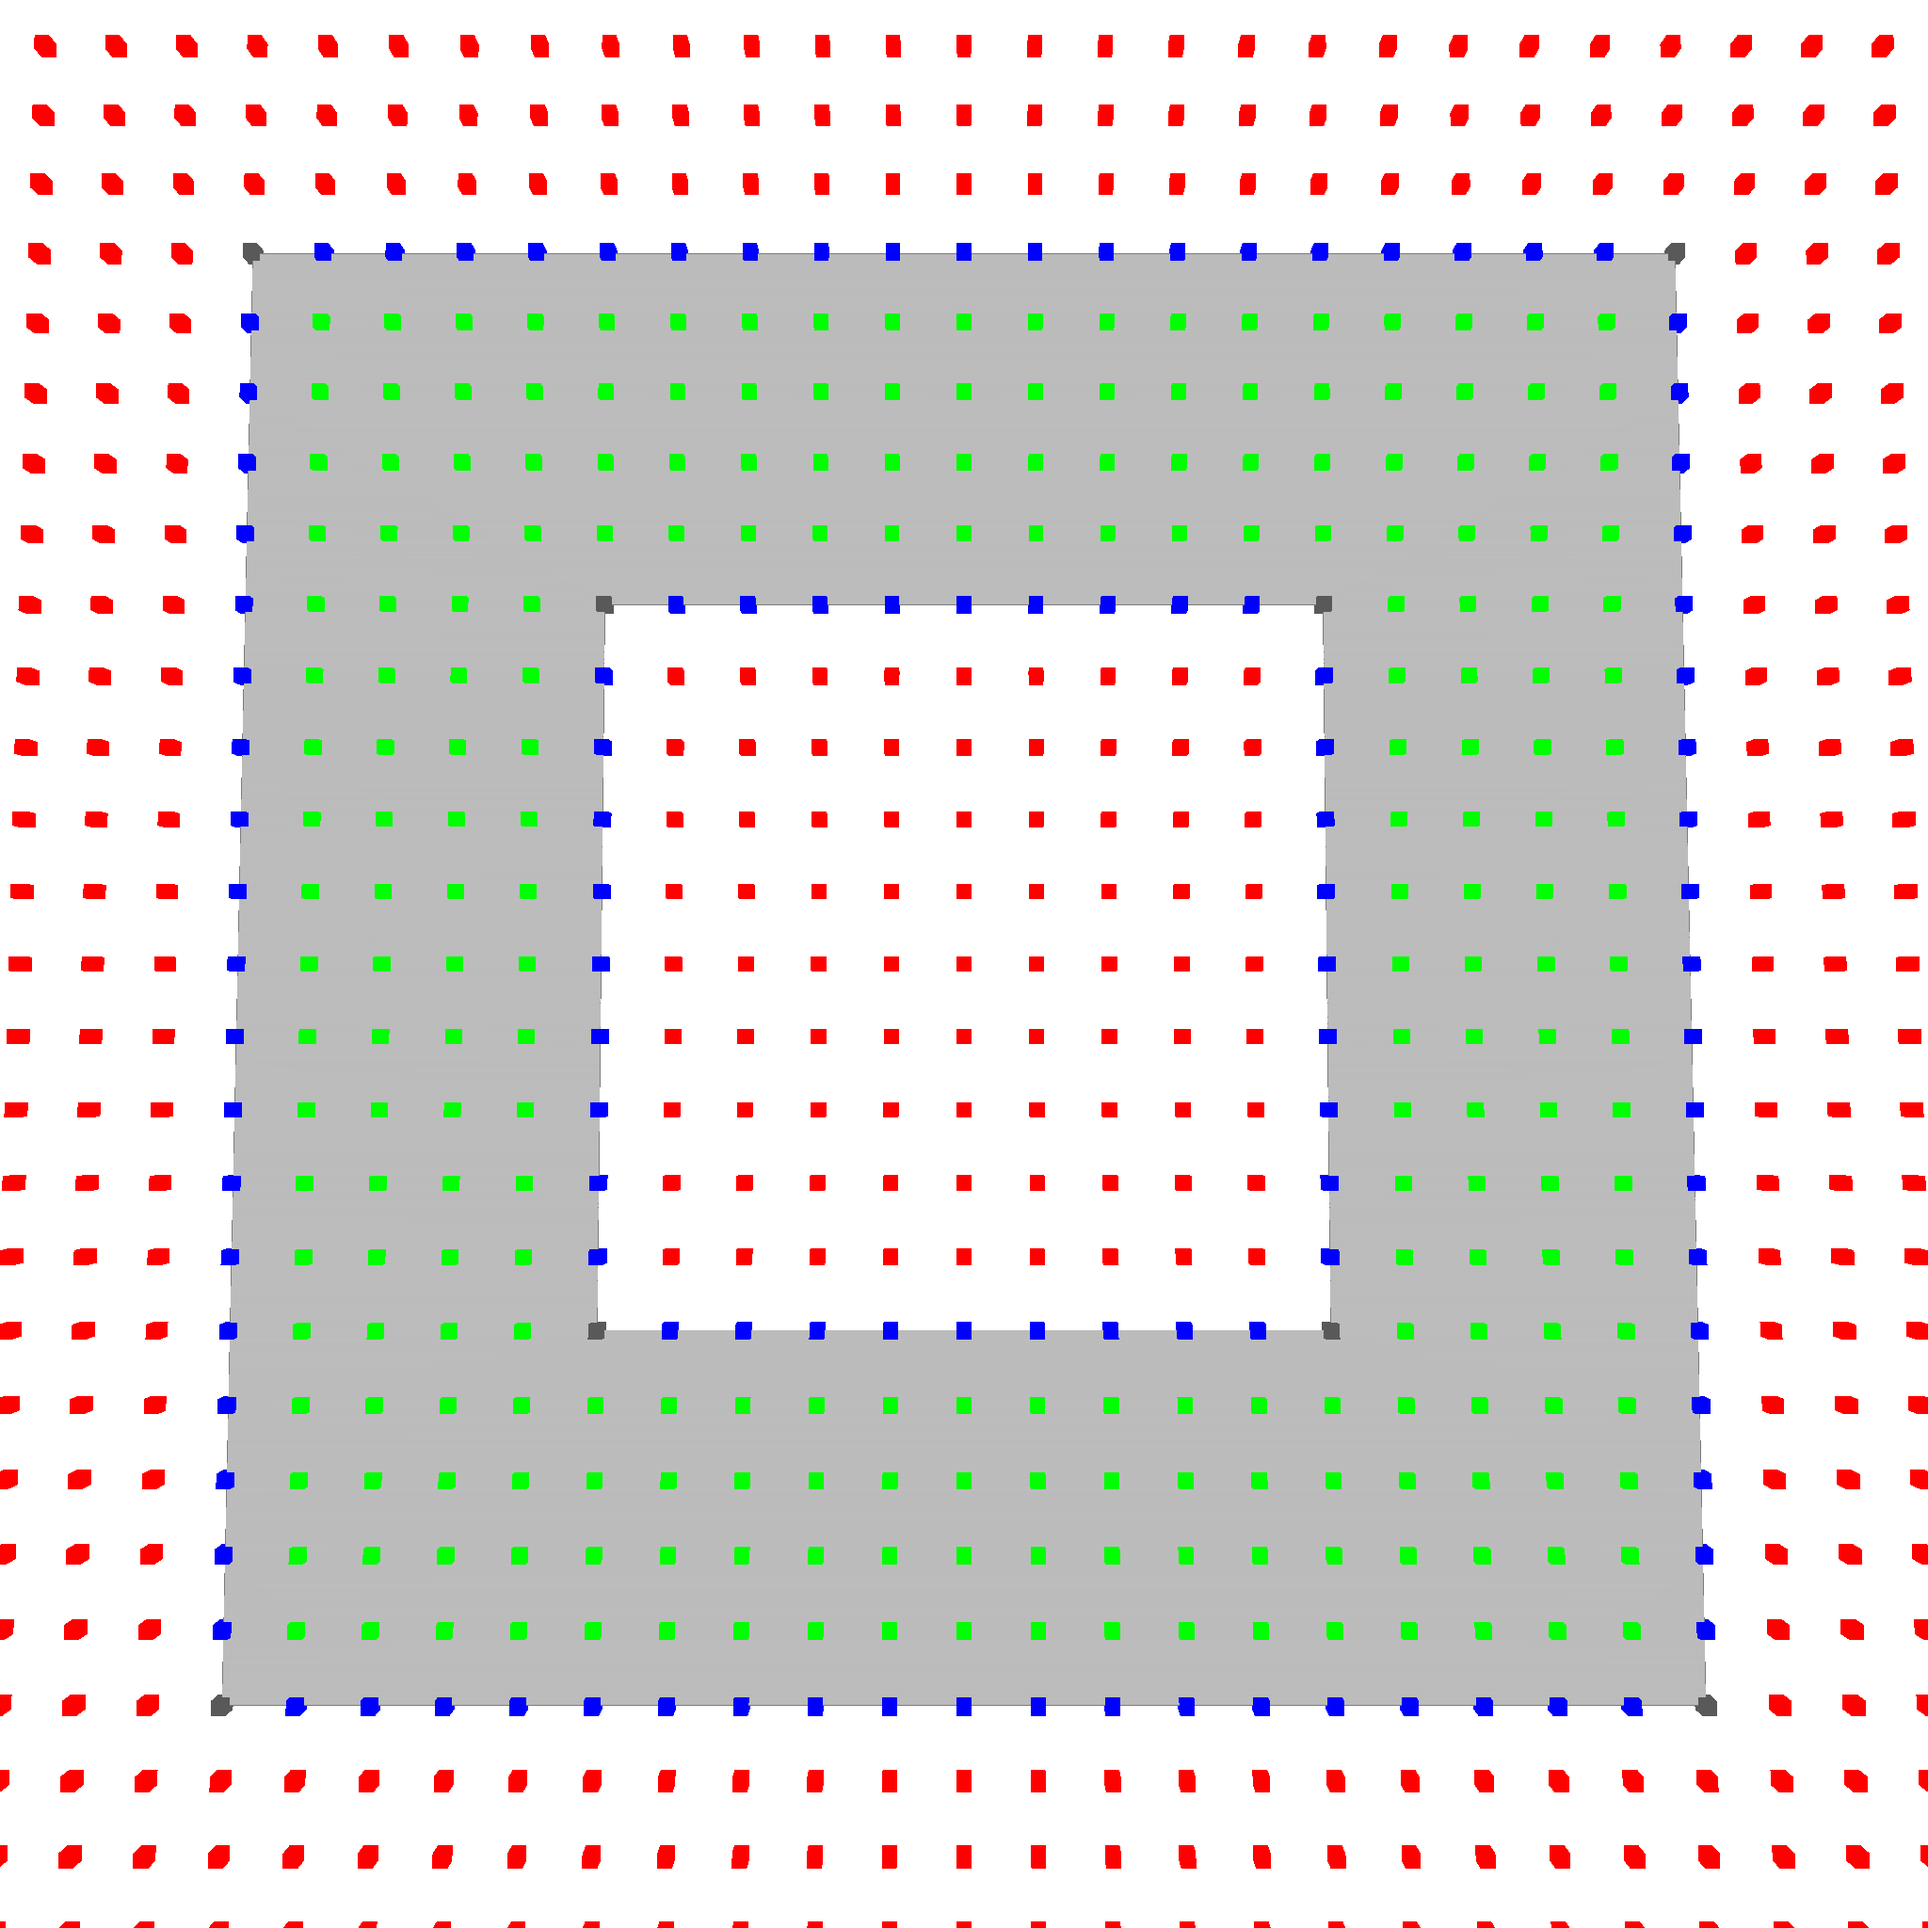
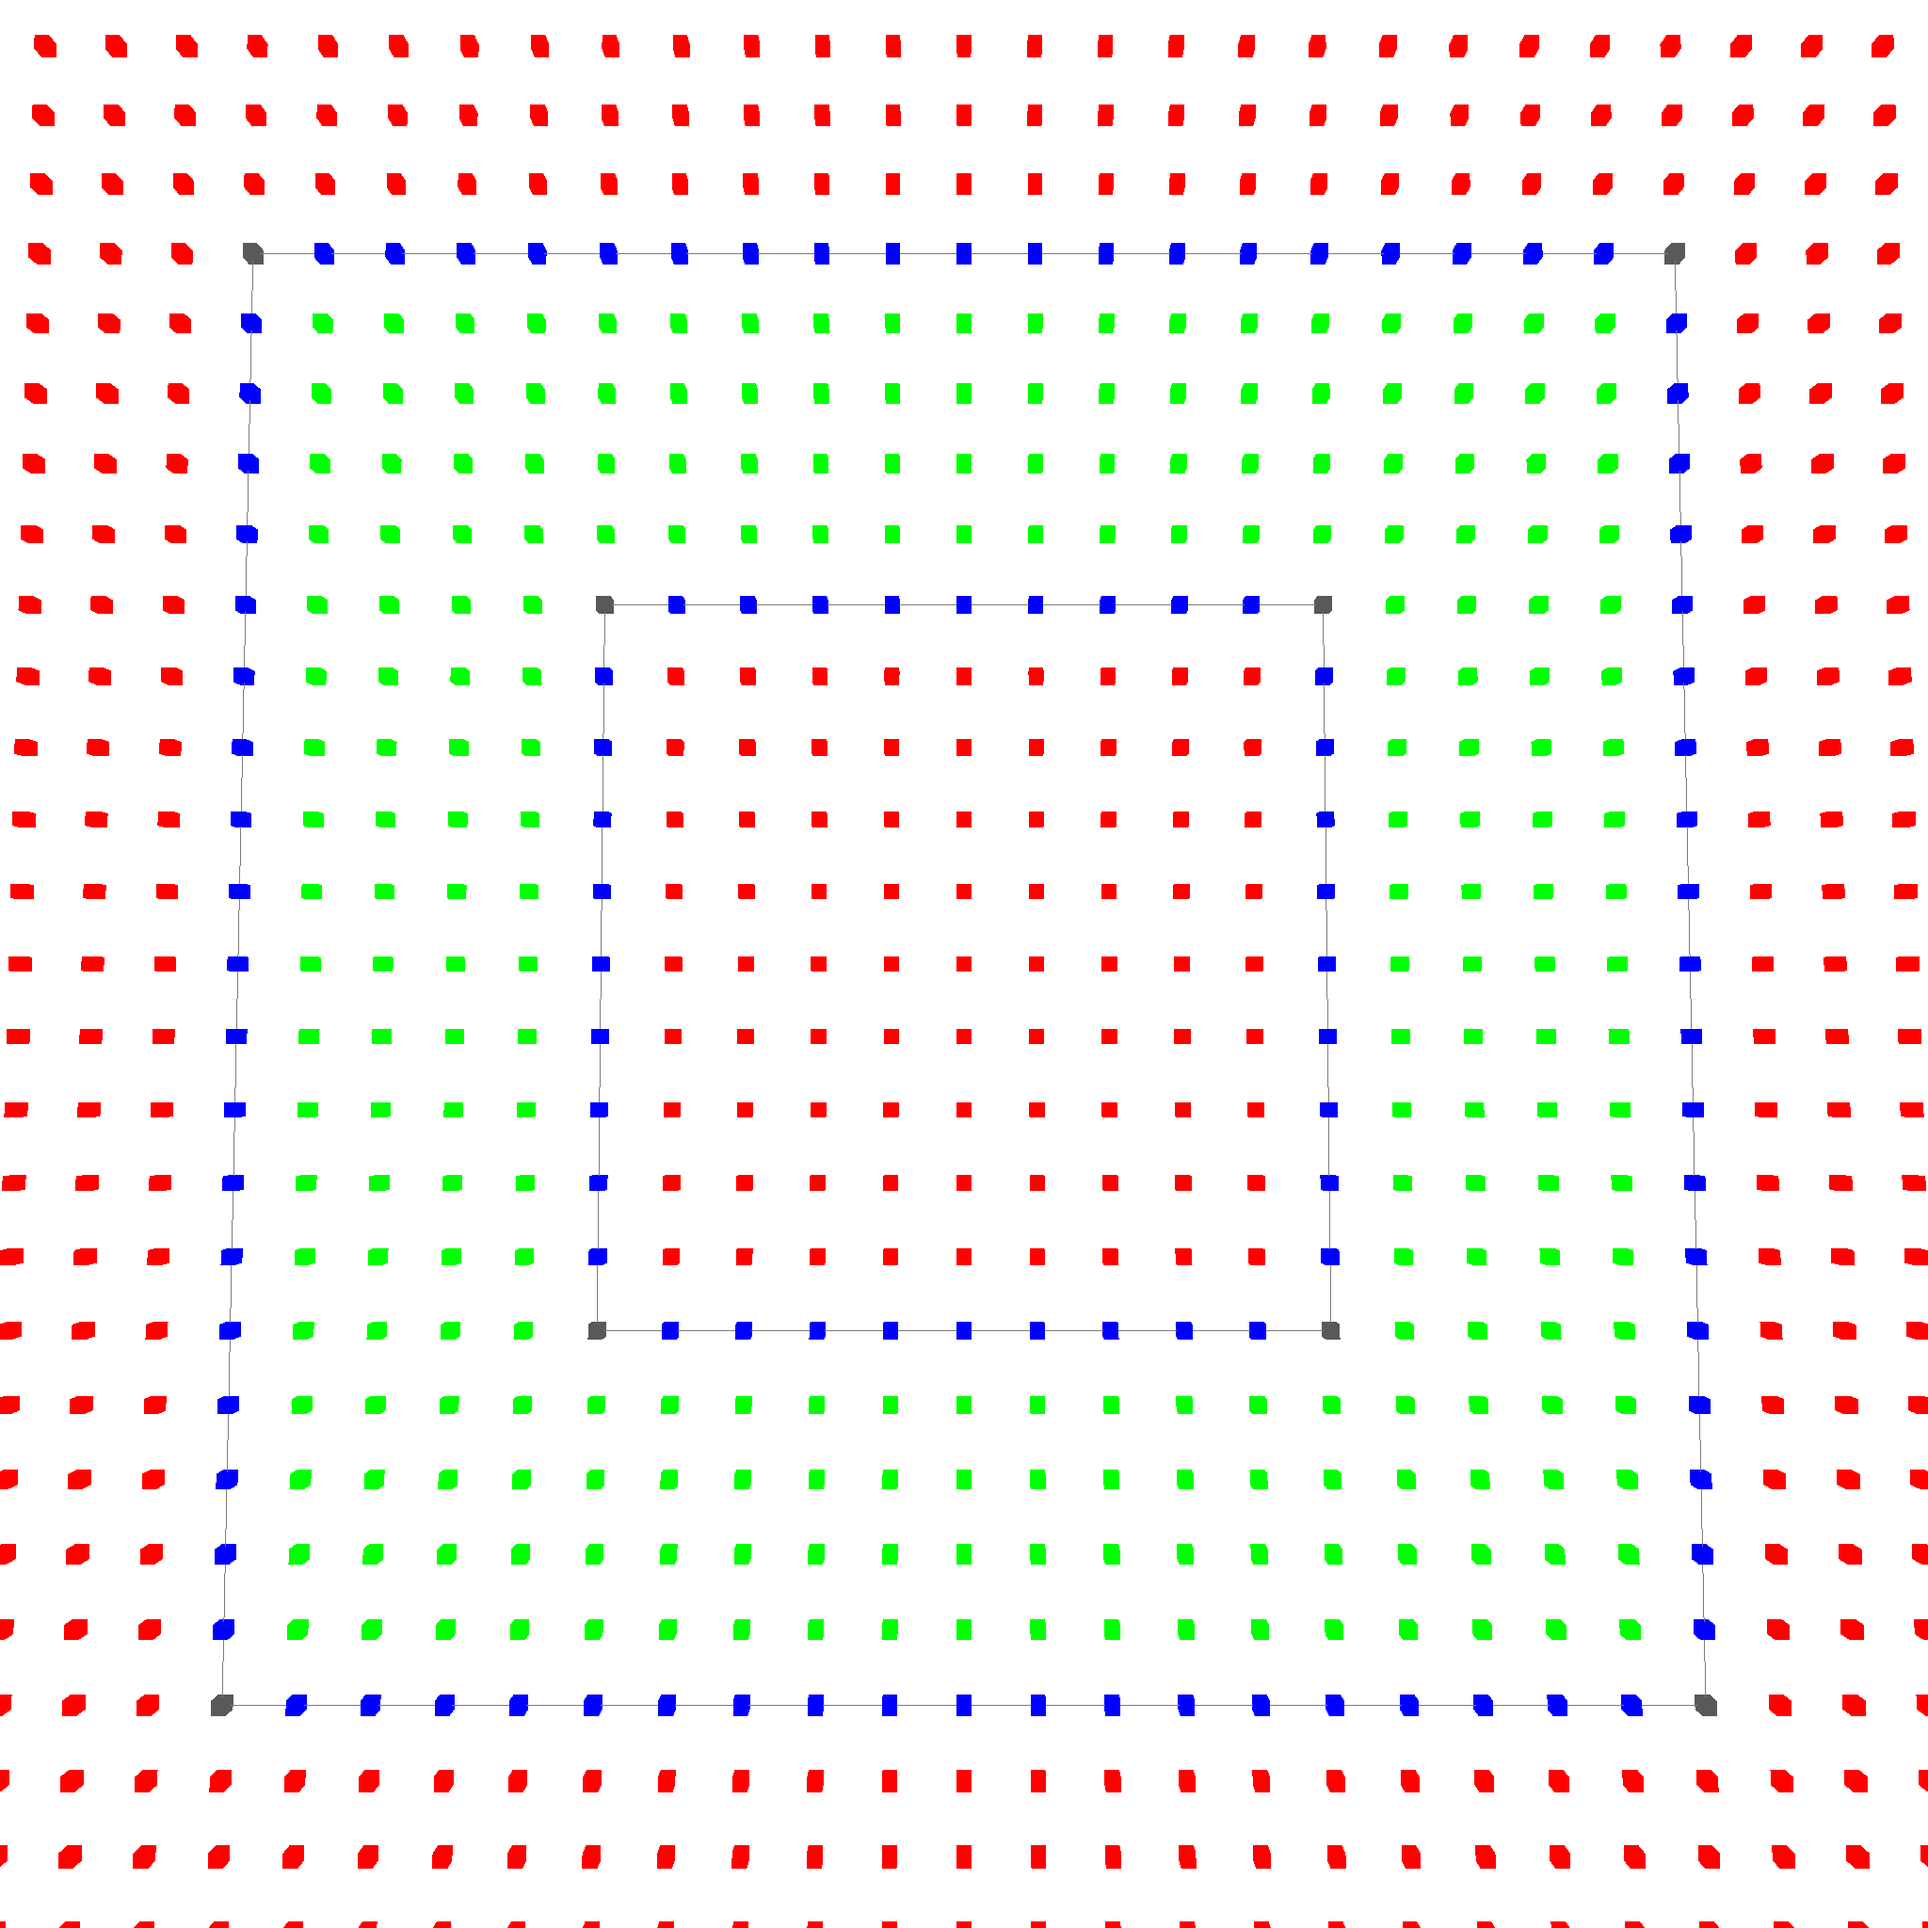
F

diff --git a/crates/modern-brep-kernel-book/src/graphics/booleans/face_booleans.rs b/crates/modern-brep-kernel-book/src/graphics/booleans/face_booleans.rs
@@ -3,8 +3,10 @@ mod tests {
     use std::rc::Rc;
 
     use geop_booleans::{
+        difference::face_face::face_face_difference,
         intersections::face_face::{face_face_intersection, FaceFaceIntersection},
         remesh::face::{face_remesh, face_split, face_split_points, FaceSplit},
+        union::face::face_face_union,
     };
     use geop_geometry::{
         points::point::Point,
@@ -203,6 +205,72 @@ mod tests {
                 false,
                 Point::new(0.0, -4.0, 0.0),
                 std::path::Path::new("src/generated_images/booleans/face_intersection.png"),
+            )
+            .await;
+    }
+
+    #[rstest]
+    async fn test_face_boolean_difference(#[future] renderer: Box<HeadlessRenderer>) {
+        let (face1, face2) = generate_scene();
+        let mut scene = Scene::new(vec![], vec![], vec![], vec![]);
+
+        for edge in face1.all_edges() {
+            scene.edges.push((edge.clone(), Color::white()));
+        }
+        for edge in face2.all_edges() {
+            scene.edges.push((edge.clone(), Color::white()));
+        }
+
+        let faces = face_face_difference(&face1, &face2);
+        for face in faces {
+            let face = face.transform(Transform::from_translation(Point::new(0.0, 0.001, 0.0)));
+            for edge in face.all_edges() {
+                scene.edges.push((edge.clone(), Color::red()));
+            }
+            scene.faces.push((face, Color::white()));
+        }
+
+        let mut renderer = renderer.await;
+        renderer
+            .render_to_file(
+                &scene,
+                false,
+                false,
+                Point::new(0.0, -4.0, 0.0),
+                std::path::Path::new("src/generated_images/booleans/face_difference.png"),
+            )
+            .await;
+    }
+
+    #[rstest]
+    async fn test_face_boolean_union(#[future] renderer: Box<HeadlessRenderer>) {
+        let (face1, face2) = generate_scene();
+        let mut scene = Scene::new(vec![], vec![], vec![], vec![]);
+
+        for edge in face1.all_edges() {
+            scene.edges.push((edge.clone(), Color::white()));
+        }
+        for edge in face2.all_edges() {
+            scene.edges.push((edge.clone(), Color::white()));
+        }
+
+        let faces = face_face_union(&face1, &face2);
+        for face in faces {
+            let face = face.transform(Transform::from_translation(Point::new(0.0, 0.001, 0.0)));
+            for edge in face.all_edges() {
+                scene.edges.push((edge.clone(), Color::red()));
+            }
+            scene.faces.push((face, Color::white()));
+        }
+
+        let mut renderer = renderer.await;
+        renderer
+            .render_to_file(
+                &scene,
+                false,
+                false,
+                Point::new(0.0, -4.0, 0.0),
+                std::path::Path::new("src/generated_images/booleans/face_union.png"),
             )
             .await;
     }

diff --git a/crates/geop-booleans/src/remesh/volume.rs b/crates/geop-booleans/src/remesh/volume.rs
@@ -1,7 +1,4 @@
-use crate::{
-    intersections::face_face::{face_face_intersection, FaceFaceIntersection},
-    split_if_necessary::edge_split_face::split_faces_by_edges_if_necessary,
-};
+use crate::intersections::face_face::{face_face_intersection, FaceFaceIntersection};
 use geop_topology::topology::{edge::Edge, face::Face, volume::Volume};
 
 // Points are ignored for now.
@@ -37,14 +34,13 @@ pub enum VolumeSplit {
     BoutA(Face),
 }
 
-pub fn volume_split(volume_self: &Volume, volume_other: &Volume) -> Vec<VolumeSplit> {
-    let mut intersections = volume_split_edges(volume_self, volume_other);
-
-    let mut faces_self = split_faces_by_edges_if_necessary(volume_self.all_faces(), &intersections);
-    let mut faces_other =
-        split_faces_by_edges_if_necessary(volume_other.all_faces(), &intersections);
-
+pub fn volume_split(_volume_self: &Volume, _volume_other: &Volume) -> Vec<VolumeSplit> {
     todo!("Implement volume split");
+    // let mut intersections = volume_split_edges(volume_self, volume_other);
+
+    // let mut faces_self = split_faces_by_edges_if_necessary(volume_self.all_faces(), &intersections);
+    // let mut faces_other =
+    //     split_faces_by_edges_if_necessary(volume_other.all_faces(), &intersections);
 
     // faces_self
     //     .into_iter()

diff --git a/crates/geop-booleans/src/split_if_necessary/edge_split_face.rs b/crates/geop-booleans/src/split_if_necessary/edge_split_face.rs
@@ -1,15 +1,15 @@
-use crate::{
-    remesh::face::normalize_faces,
-    split_if_necessary::point_split_edge::split_contours_by_points_if_necessary,
-};
+// use crate::{
+//     remesh::face::normalize_faces,
+//     split_if_necessary::point_split_edge::split_contours_by_points_if_necessary,
+// };
 
 use geop_topology::{
     contains::{
-        contour_point::contour_point_contains,
-        edge_point::EdgePointContains,
+        // contour_point::contour_point_contains,
+        // edge_point::EdgePointContains,
         face_edge::{face_edge_contains, FaceEdgeContains},
     },
-    topology::{contour::Contour, edge::Edge, face::Face},
+    topology::{edge::Edge, face::Face},
 };
 
 pub fn split_face_by_edge_if_necessary(face: &Face, edge: &Edge) -> Vec<Face> {

diff --git a/crates/geop-booleans/src/union/face.rs b/crates/geop-booleans/src/union/face.rs
@@ -1,7 +1,7 @@
 use crate::remesh::face::{face_remesh, face_split, normalize_faces, FaceSplit};
 use geop_topology::topology::face::Face;
 
-pub fn face_union(face_self: &Face, face_other: &Face) -> Vec<Face> {
+pub fn face_face_union(face_self: &Face, face_other: &Face) -> Vec<Face> {
     assert!(
         face_self.surface == face_other.surface,
         "Faces must have the same surface",

diff --git a/crates/geop-topology/src/topology/face/mod.rs b/crates/geop-topology/src/topology/face/mod.rs
@@ -126,12 +126,11 @@ impl Face {
 
     pub fn normal(&self, p: Point) -> Point {
         match face_point_contains(self, p) {
-            _ => (),
             FacePointContains::NotOnSurface => {
                 panic!("Point is not on surface");
             }
+            _ => self.surface.normal(p),
         }
-        self.surface.normal(p)
     }
 
     pub fn neg(&self) -> Face {

diff --git a/crates/modern-brep-kernel-book/src/graphics/geometry/surface_log_exp.rs b/crates/modern-brep-kernel-book/src/graphics/geometry/surface_log_exp.rs
@@ -3,7 +3,7 @@ mod tests {
     use geop_geometry::points::point::Point;
     use geop_topology::{
         primitive_objects::{edges::line::primitive_line, faces::sphere::primitive_sphere},
-        topology::scene::{self, Color, Scene},
+        topology::scene::{Color, Scene},
     };
     use geop_wgpu::headless_renderer::HeadlessRenderer;
     use rstest::rstest;

diff --git a/crates/geop-rasterize/src/face.rs b/crates/geop-rasterize/src/face.rs
@@ -380,6 +380,10 @@ pub fn rasterize_face_into_triangle_list(face: &Face, color: Color) -> TriangleB
         if processed_edges.contains(&edge) {
             continue;
         }
+        if face_point_contains(face, edge.mid_point()) != FacePointContains::Inside {
+            continue;
+        }
+
         processed_edges.push(edge);
 
         println!(

diff --git a/crates/modern-brep-kernel-book/src/graphics/topology/edges.rs b/crates/modern-brep-kernel-book/src/graphics/topology/edges.rs
@@ -1,9 +1,7 @@
 #[cfg(test)]
 mod tests {
-    use std::f32::consts::E;
 
     use geop_geometry::points::point::Point;
-    use geop_rasterize::edge::rasterize_edge_into_vertex_list;
     use geop_topology::{
         primitive_objects::edges::{
             arc::primitive_arc, circle::primitive_circle, line::primitive_line,

diff --git a/crates/geop-wgpu/src/headless_renderer.rs b/crates/geop-wgpu/src/headless_renderer.rs
@@ -1,6 +1,6 @@
 use geop_geometry::points::point::Point;
 use geop_rasterize::{
-    edge::{rasterize_edge_into_line_list, rasterize_edge_into_vertex_list},
+    edge::rasterize_edge_into_line_list,
     edge_buffer::EdgeBuffer,
     face::{
         rasterize_face_into_line_list, rasterize_face_into_triangle_list,

diff --git a/crates/modern-brep-kernel-book/src/graphics/geometry/geodesics.rs b/crates/modern-brep-kernel-book/src/graphics/geometry/geodesics.rs
@@ -1,6 +1,6 @@
 #[cfg(test)]
 mod tests {
-    use geop_geometry::{curves::curve::Curve, points::point::Point};
+    use geop_geometry::points::point::Point;
     use geop_topology::{
         primitive_objects::faces::sphere::primitive_sphere,
         topology::scene::{Color, Scene},

diff --git a/crates/geop-topology/src/primitive_objects/faces/plane.rs b/crates/geop-topology/src/primitive_objects/faces/plane.rs
@@ -2,7 +2,7 @@ use std::rc::Rc;
 
 use geop_geometry::{
     points::point::Point,
-    surfaces::{plane::Plane, sphere::Sphere, surface::Surface},
+    surfaces::{plane::Plane, surface::Surface},
 };
 
 use crate::topology::face::Face;

diff --git a/crates/geop-geometry/src/surfaces/plane.rs b/crates/geop-geometry/src/surfaces/plane.rs
@@ -2,7 +2,7 @@ use crate::{
     curves::{curve::Curve, line::Line},
     points::point::Point,
     transforms::Transform,
-    EQ_THRESHOLD, HORIZON_DIST,
+    EQ_THRESHOLD,
 };
 
 use super::surface::TangentPoint;
